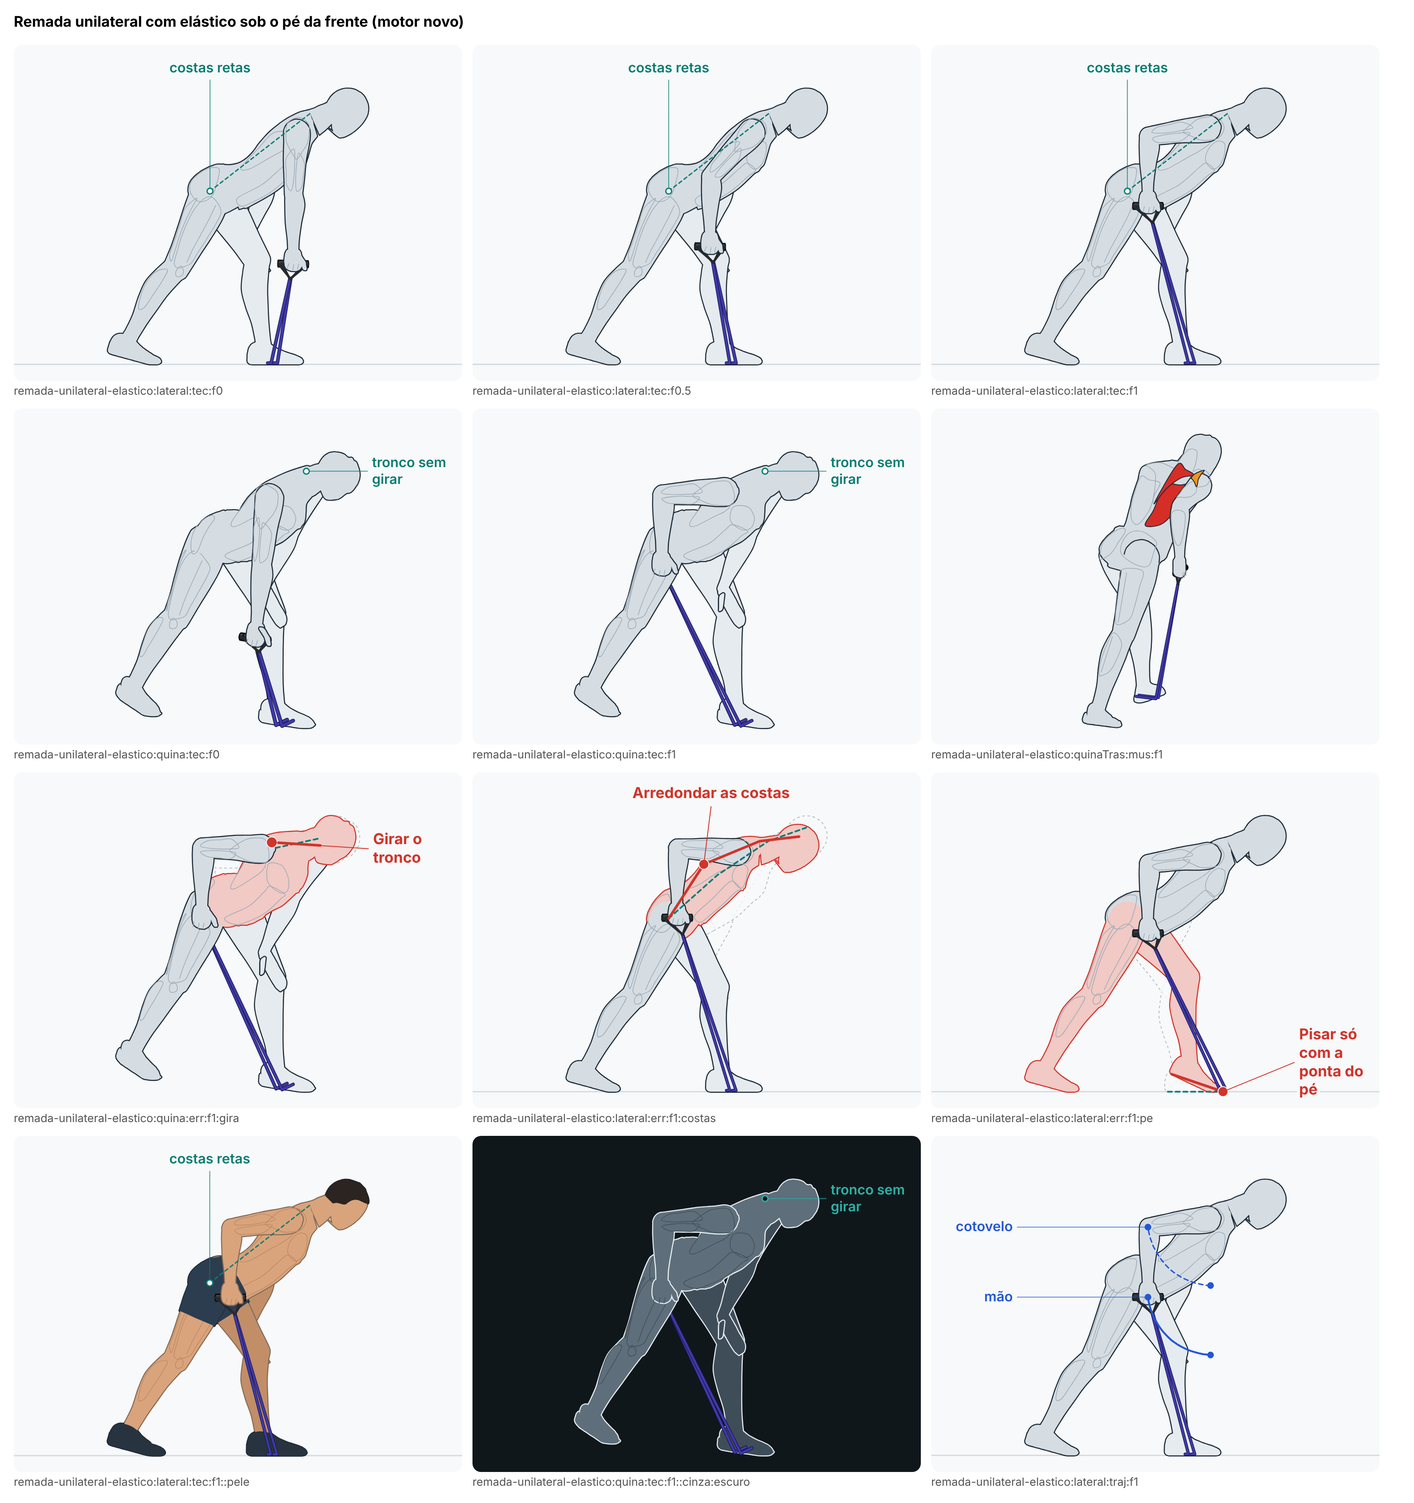
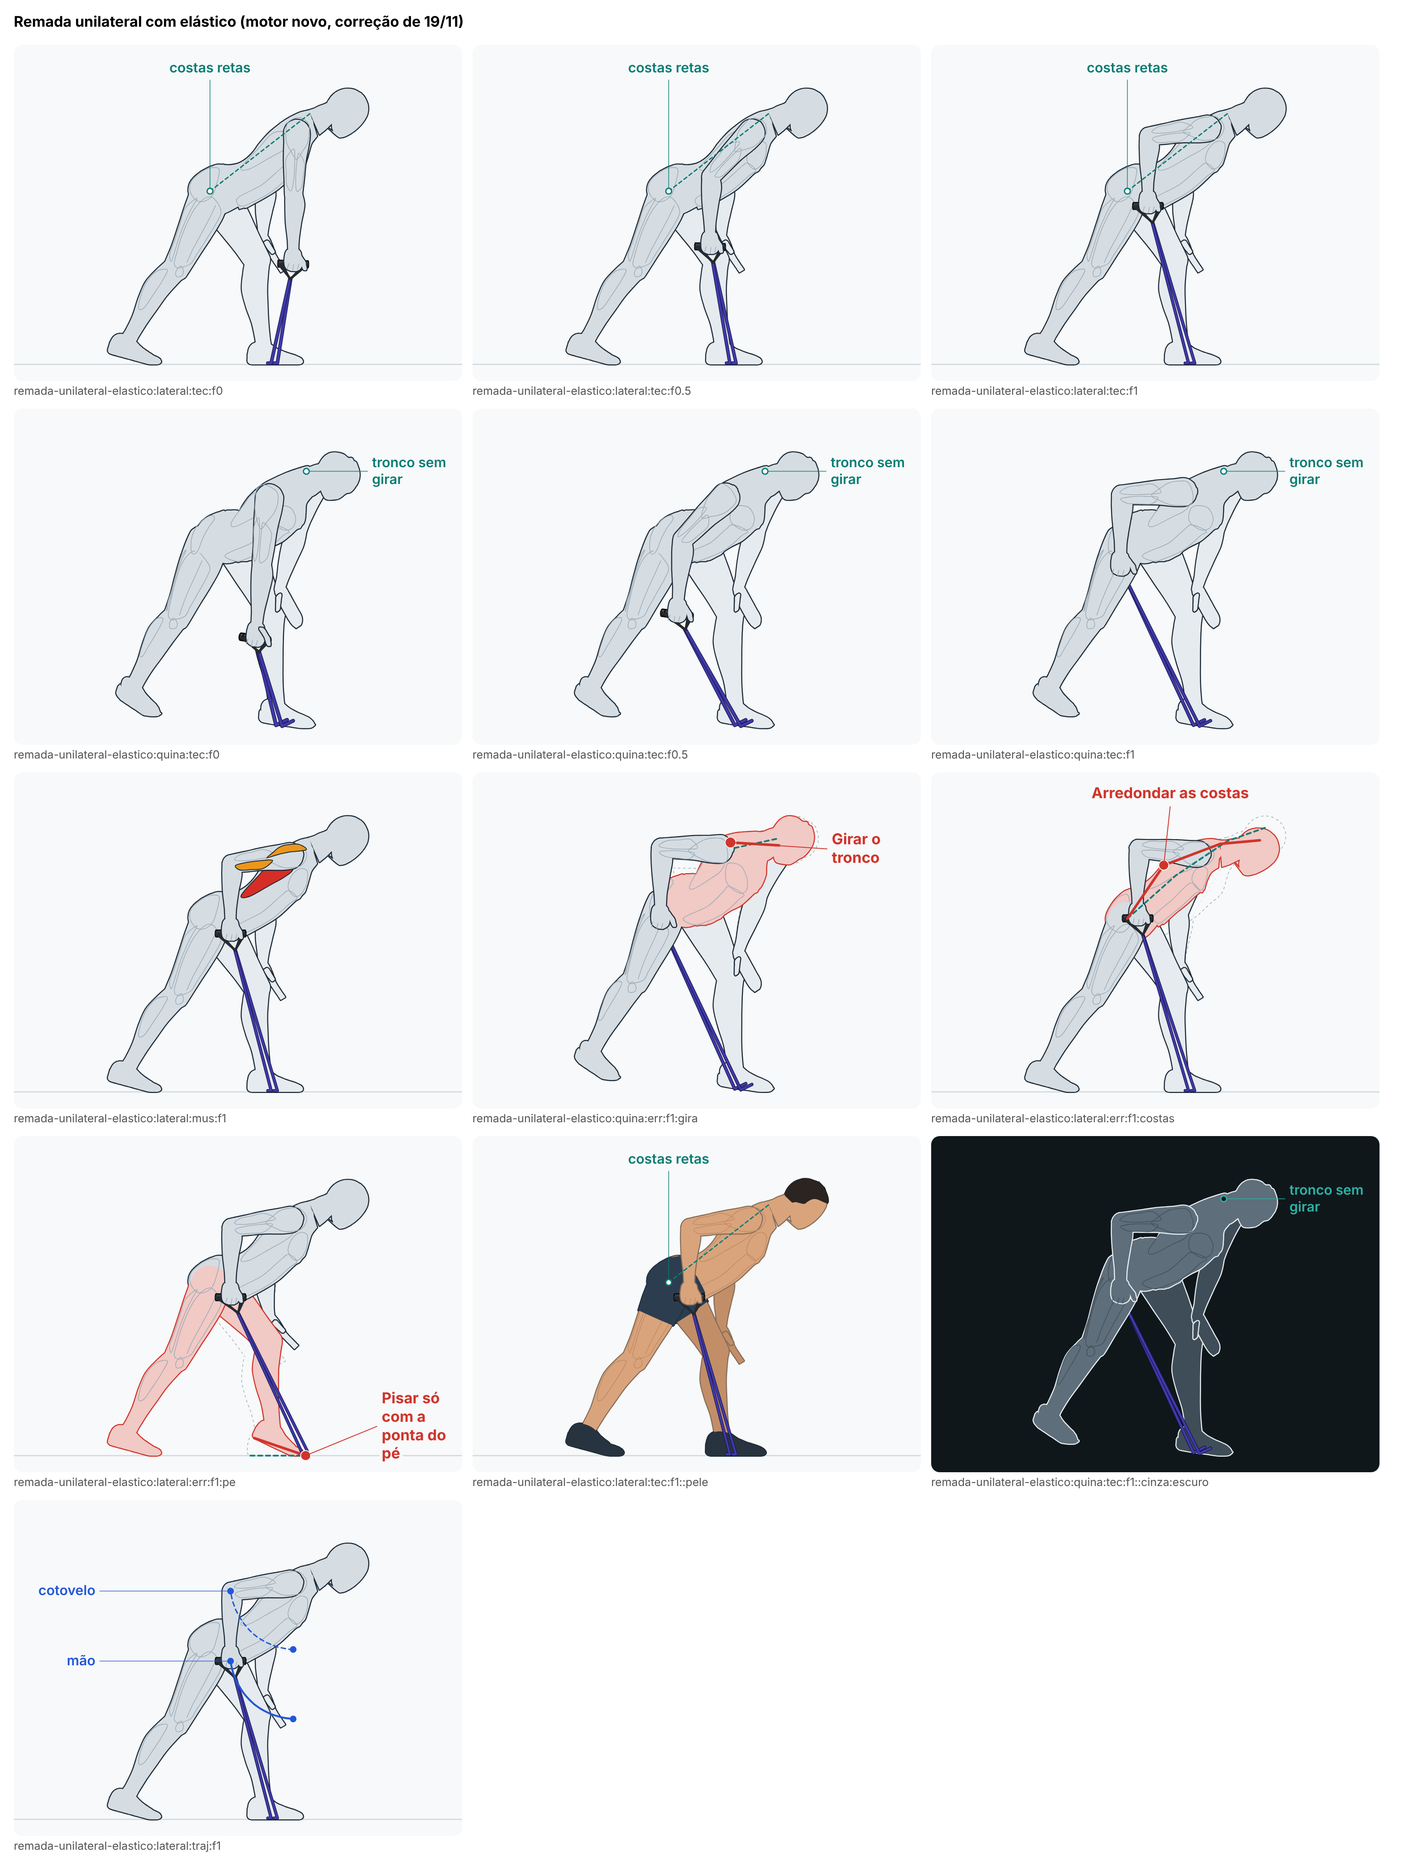
Remada unilateral com elástico: a mão de apoio pousa na coxa, sem entrar nela (auditoria M4)
A base das remadas sem banco procura o ponto da pele da coxa entre pontos a
até 2,5 cm de um plano; entre dois anéis não achava nenhum e punha a mão no
eixo da coxa (o centro da mão 3,8 cm dentro da pele, a mão 5,7 cm e o
antebraço 6,8 cm dentro da coxa). Acréscimo na base: `peleDaCoxaNaSuperficie`
(o anel interpolado e a elipse dele) e a opção `pele` em `baseSemBanco`, que
por padrão continua a de antes. A remada com elástico usa a nova, também no
erro do pé (que passa a seguir o meio da palma); o cotovelo de apoio vai de
12° a 40° para o meio da mão ficar na coxa (97%), e não além do joelho.

Regra nova `remada-elastico-mao-de-apoio-sobre-a-coxa`: no ciclo e nos
erros, o centro da mão fora da pele e dentro da largura da coxa, entre o
quadril e o joelho, e a mão e o antebraço sem entrar nela. Antes: -3,8 cm,
5,7 e 6,8 cm. Depois: +2,7 cm, 0 e até 1 cm.

Claude-Session: https://claude.ai/code/session_01YRzts8DBGbsca9onebcMt1

Changed region(s): [[0.0, 0.0, 0.9951, 1.0]]

diff --git a/src/engine/novo/regras/remada-unilateral-elastico.ts b/src/engine/novo/regras/remada-unilateral-elastico.ts
@@ -1,0 +1,72 @@
+// Regras medidas da remada unilateral com elástico (../exercicios/remada-unilateral-elastico.ts) que as remadas sem banco
+// (./remadas.ts) não medem: a mão de apoio pousada na pele da coxa da frente, sem entrar nela, no ciclo e nos erros
+// (auditoria de 18/11/2026, M4: o centro da mão ficava a 2,3 cm do eixo da coxa e o antebraço entrava 6,3 cm nela).
+import { formaDoBoneco } from '../boneco';
+import { f1 } from '../conferir-util';
+import type { Regra } from '../conferir-util';
+import type { Esq } from '../esqueleto';
+import { distanciaEntre, entraNasPartes } from '../exercicios/sentado-na-ponta';
+import type { Quadro } from '../movimento';
+import { dot, norm, sub } from '../vec';
+
+/**
+ * A mão de apoio (a esquerda) contra a coxa esquerda, num quadro:
+ *  - `t`: onde o centro da mão fica ao longo da coxa (0 = quadril, 1 = joelho);
+ *  - `fora`: quanto o centro da mão fica fora da pele da coxa, na direção dele a partir do eixo (cm; negativo = dentro),
+ *    medido na elipse do anel da coxa interpolado naquele ponto;
+ *  - `borda`: a folga do centro da mão até a borda lateral da coxa (a meia largura do anel menos o desvio para o lado;
+ *    positivo = sobre a coxa, e não ao lado dela);
+ *  - `mao`, `ante`: quanto a pele da mão e a do antebraço entram na pele da coxa (cm; 0 ou menos = não entram);
+ *  - `encosta`: a menor distância entre a pele da mão e a da coxa (cm).
+ */
+export function maoNaCoxa(e: Esq): { t: number; fora: number; borda: number; mao: number; ante: number; encosta: number } {
+  const L = e.lado.L;
+  const eixo = sub(L.joelho, L.quadril);
+  const t = dot(sub(L.pegada, L.quadril), eixo) / dot(eixo, eixo);
+  const aneis = formaDoBoneco(e).grupos.find((g) => g.id === 'pernaL')!.volumes.find((v) => v.nome === 'coxa')!.vol.aneis;
+  // o anel mais perto do centro da mão, ao longo da coxa
+  const u = norm(eixo);
+  let a = aneis[0]!;
+  for (const x of aneis) if (Math.abs(dot(sub(x.c, L.pegada), u)) < Math.abs(dot(sub(a.c, L.pegada), u))) a = x;
+  const d = sub(L.pegada, a.c);
+  const dx = dot(d, a.x),
+    dz = dot(d, a.z);
+  const h = Math.hypot(dx, dz) || 1;
+  const rho = 1 / Math.hypot(dx / h / a.a, dz / h / (dz >= 0 ? a.f : a.b));
+  const esquerdo = (_: string, p: number[]) => p[0]! > 0;
+  const mao = entraNasPartes(e, (parte, p) => parte === 'coxa' && esquerdo(parte, p), (parte, p) => (parte === 'mao' || parte === 'polegar') && esquerdo(parte, p));
+  const ante = entraNasPartes(e, (parte, p) => parte === 'coxa' && esquerdo(parte, p), (parte, p) => parte === 'ante' && esquerdo(parte, p));
+  const encosta = distanciaEntre(e, (parte, p) => parte === 'mao' && esquerdo(parte, p), (parte, p) => parte === 'coxa' && esquerdo(parte, p));
+  return { t, fora: h - rho, borda: a.a - Math.abs(dx), mao, ante, encosta };
+}
+
+export const REGRAS_REMADA_UNILATERAL_ELASTICO: Record<string, Regra> = {
+  'remada-elastico-mao-de-apoio-sobre-a-coxa': (_q, corpo, ex) => {
+    // No ciclo (5 instantes) e em cada erro (no começo, no meio, no fim e no instante dele): o centro da mão de apoio
+    // fica fora da pele da coxa da frente (a palma pousa nela), entre o quadril e o joelho e sobre a coxa (dentro da
+    // largura dela); a mão e o antebraço não entram na coxa mais que o amassado da pele (1,5 e 1 cm), e a mão encosta
+    // (a até 1,5 cm). A remada é de um braço só: a outra mão segura o elástico e não apoia.
+    if (!ex) return { medido: 'a regra precisa do exercício (a conferência o passa)', ok: false };
+    const casos: { onde: string; q: Quadro }[] = [];
+    for (const u of [0, 0.25, 0.5, 0.75, 1]) casos.push({ onde: 'ciclo', q: ex.quadro(corpo, u) });
+    for (const er of ex.ficha.erros) for (const u of [...new Set([0, 0.5, 1, er.instante])]) casos.push({ onde: er.titulo, q: ex.quadro(corpo, u, er.id) });
+    const pior = { t0: 1e9, t1: -1e9, fora: 1e9, borda: 1e9, mao: -1e9, ante: -1e9, encosta: -1e9 };
+    const onde = { fora: '', mao: '', ante: '' };
+    for (const { onde: o, q } of casos) {
+      const m = maoNaCoxa(q.esq);
+      pior.t0 = Math.min(pior.t0, m.t);
+      pior.t1 = Math.max(pior.t1, m.t);
+      if (m.fora < pior.fora) [pior.fora, onde.fora] = [m.fora, o];
+      pior.borda = Math.min(pior.borda, m.borda);
+      if (m.mao > pior.mao) [pior.mao, onde.mao] = [m.mao, o];
+      if (m.ante > pior.ante) [pior.ante, onde.ante] = [m.ante, o];
+      pior.encosta = Math.max(pior.encosta, m.encosta);
+    }
+    return {
+      medido:
+        `o centro da mão de apoio fica de ${f1(pior.t0 * 100)}% a ${f1(pior.t1 * 100)}% do caminho do quadril ao joelho, no mínimo ${f1(pior.fora)} cm fora da pele da coxa (${onde.fora}; negativo = dentro) e ${f1(pior.borda)} cm para dentro da borda lateral dela; ` +
+        `a pele da mão entra até ${f1(Math.max(0, pior.mao))} cm na coxa (${onde.mao}) e a do antebraço até ${f1(Math.max(0, pior.ante))} cm (${onde.ante}); a mão fica a até ${f1(pior.encosta)} cm da pele da coxa`,
+      ok: pior.t0 >= 0.4 && pior.t1 <= 1 && pior.fora >= 0 && pior.borda >= 0 && pior.mao <= 1.5 && pior.ante <= 1 && pior.encosta <= 1.5,
+    };
+  },
+};

diff --git a/src/engine/novo/exercicios/remada-sem-banco.ts b/src/engine/novo/exercicios/remada-sem-banco.ts
@@ -5,7 +5,7 @@
 // A pose parada sai das medidas: a inclinação do peito é a da ficha; cada pé anda para a frente ou para trás até o
 // joelho dele ficar no ângulo da ficha; a altura do quadril é a que dá o passo da ficha (de um tornozelo ao outro); a
 // mão encosta na pele da coxa da frente no ponto em que o cotovelo de apoio fica no ângulo da ficha (`resolver1`).
-import { pontosDoBoneco } from '../boneco';
+import { formaDoBoneco, pontosDoBoneco } from '../boneco';
 import { resolverMembros, resolverTronco } from '../esqueleto';
 import type { Esq, PoseBraco, PosePerna, PoseTronco } from '../esqueleto';
 import { resolver1 } from '../movimento';
@@ -34,7 +34,57 @@ export function peleDaCoxa(e: Esq, t: number): { p: V3; n: V3 } {
   return { p: add(c, mul(n, r)), n };
 }
 
-export function baseSemBanco(corpo: Corpo, f: (id: string) => number): BaseDaRemada {
+/**
+ * O mesmo ponto de `peleDaCoxa`, medido na superfície de verdade (acréscimo de 19/11/2026): o anel da coxa em `t` é
+ * interpolado entre os dois anéis vizinhos do volume da coxa, e o ponto é onde a direção `n` sai da elipse do anel.
+ * `peleDaCoxa` procura pontos da pele a até 2,5 cm do plano em `t` e, entre dois anéis afastados, não acha nenhum: o
+ * ponto ficava no eixo da coxa (com a mão de apoio dentro dela; auditoria de 18/11, M4).
+ */
+export function peleDaCoxaNaSuperficie(e: Esq, t: number): { p: V3; n: V3 } {
+  const L = e.lado.L;
+  const eixo = sub(L.joelho, L.quadril),
+    comp = Math.hypot(...eixo);
+  const u = mul(eixo, 1 / comp);
+  const n = norm(add(L.coxa.z, mul(L.coxa.x, 0.15)));
+  const c = add(L.quadril, mul(eixo, t));
+  const vol = formaDoBoneco(e).grupos.find((g) => g.id === 'pernaL')!.volumes.find((v) => v.nome === 'coxa')!.vol;
+  // o ponto da superfície de um anel na direção n (projetada no plano do anel)
+  const naPele = (a: (typeof vol.aneis)[number]): V3 => {
+    const nx = dot(n, a.x),
+      nz = dot(n, a.z);
+    const h = Math.hypot(nx, nz) || 1;
+    const cx = nx / h,
+      cz = nz / h;
+    const rho = 1 / Math.hypot(cx / a.a, cz / (cz >= 0 ? a.f : a.b));
+    return add(a.c, add(mul(a.x, rho * cx), mul(a.z, rho * cz)));
+  };
+  const ao = (a: (typeof vol.aneis)[number]) => dot(sub(a.c, c), u);
+  const A = vol.aneis;
+  let i = 0;
+  while (i + 2 < A.length && ao(A[i + 1]!) < 0) i++;
+  const a0 = A[i]!,
+    a1 = A[i + 1]!;
+  const d0 = ao(a0),
+    d1 = ao(a1);
+  const w = Math.max(0, Math.min(1, d1 === d0 ? 0 : -d0 / (d1 - d0)));
+  const p0 = naPele(a0),
+    p1 = naPele(a1);
+  const p = add(p0, mul(sub(p1, p0), w));
+  // o ponto fica no plano em t (a pele entre os dois anéis), na direção n a partir do eixo
+  const r = dot(sub(p, c), n);
+  return { p: add(c, mul(n, r)), n };
+}
+
+/**
+ * Opções da base (acréscimo de 19/11/2026; sem elas, nada muda): `pele` é o ponto da coxa em que a mão de apoio pousa
+ * (por padrão, `peleDaCoxa`).
+ */
+export interface OpcoesSemBanco {
+  pele?: (e: Esq, t: number) => { p: V3; n: V3 };
+}
+
+export function baseSemBanco(corpo: Corpo, f: (id: string) => number, opcoes: OpcoesSemBanco = {}): BaseDaRemada {
+  const pele = opcoes.pele ?? peleDaCoxa;
   const m = (id: string) => corpo.m(id);
   const peito = f('tronco.inclinacao');
   const tronco = (y: number): PoseTronco => ({ pelve: [0, y, 0], frente: peito, cervical: f('cervical'), cabeca: f('cabeca') });
@@ -69,7 +119,7 @@ export function baseSemBanco(corpo: Corpo, f: (id: string) => number): BaseDaRem
     // a mão espalmada na coxa da frente: o meio da palma na pele, os dedos para o joelho, o polegar para dentro
     let apoio: PoseBraco = semBraco;
     for (let i = 0; i < 3; i++) {
-      const P = peleDaCoxa(e, naCoxa);
+      const P = pele(e, naCoxa);
       const dedos = norm(sub(e.lado.L.joelho, e.lado.L.quadril));
       const punho = sub(add(P.p, mul(P.n, m('raio.punho') * 0.85)), mul(dedos, m('mao.palma') * 0.45));
       apoio = { punho, polo: norm([1, 0.2, -0.6]), mao: { polegar: [-1, 0, 0], dedos, forma: 'aberta' } };

diff --git a/src/engine/novo/exercicios/remada-unilateral-elastico.ts b/src/engine/novo/exercicios/remada-unilateral-elastico.ts
@@ -22,7 +22,7 @@ import { comprimento } from './elastico-faixa';
 import { bordasDaSolaEm, trechoAteOPe } from './elastico-pisado';
 import { criarRemada } from './remada';
 import type { BaseDaRemada } from './remada';
-import { baseSemBanco, peleDaCoxa } from './remada-sem-banco';
+import { baseSemBanco, peleDaCoxaNaSuperficie } from './remada-sem-banco';
 
 const f = daFicha(fichaSchema.parse(ficha));
 /** O meio da sola, do calcanhar à ponta do pé (como na curvada com elástico e na rosca com elástico aprovada). */
@@ -31,7 +31,7 @@ const MEIO_DA_SOLA = 0.4;
 /**
  * O erro do pé: a mesma base, com o calcanhar da frente levantado. O quadril fica onde estava (a perna de trás, quase
  * estendida, não deixa o corpo subir), o joelho da frente dobra mais, e a mão de apoio vai junto com a coxa: fica no
- * mesmo ponto dela, assentada na pele como em ./remada-sem-banco.ts.
+ * mesmo ponto dela, assentada na pele (medida na superfície, como na base).
  */
 function naPonta(b: BaseDaRemada, corpo: Corpo): BaseDaRemada {
   const m = (id: string) => corpo.m(id);
@@ -39,14 +39,16 @@ function naPonta(b: BaseDaRemada, corpo: Corpo): BaseDaRemada {
   const t = resolverTronco(corpo, b.tronco);
   const antes = resolverMembros(t, { R: solto, L: b.apoio! }, b.pernas);
   const L0 = antes.lado.L;
-  // em que ponto da coxa (0 = quadril, 1 = joelho) o meio da mão apoia
+  // em que ponto da coxa (0 = quadril, 1 = joelho) o meio da palma apoia: o ponto da pele que a base usou (o punho fica
+  // `mao.palma` × 0,45 antes dele, ao longo da coxa). Até 19/11 a conta usava o centro da pegada, alguns centímetros
+  // adiante, e a mão escorregava para o joelho no erro
   const eixo0 = sub(L0.joelho, L0.quadril);
-  const naCoxa = dot(sub(L0.pegada, L0.quadril), eixo0) / dot(eixo0, eixo0);
+  const naCoxa = dot(sub(add(L0.punho, mul(norm(eixo0), m('mao.palma') * 0.45)), L0.quadril), eixo0) / dot(eixo0, eixo0);
   const pernas = { R: b.pernas.R, L: { ...b.pernas.L, pe: { ...b.pernas.L.pe!, calc: f('erro.pe.calcanhar') } } };
   let e = resolverMembros(t, { R: solto, L: b.apoio! }, pernas);
   let apoio = b.apoio!;
   for (let i = 0; i < 3; i++) {
-    const P = peleDaCoxa(e, naCoxa);
+    const P = peleDaCoxaNaSuperficie(e, naCoxa);
     const dedos = norm(sub(e.lado.L.joelho, e.lado.L.quadril));
     const punho = sub(add(P.p, mul(P.n, m('raio.punho') * 0.85)), mul(dedos, m('mao.palma') * 0.45));
     apoio = { ...b.apoio!, punho, mao: { ...b.apoio!.mao, dedos } };
@@ -56,8 +58,12 @@ function naPonta(b: BaseDaRemada, corpo: Corpo): BaseDaRemada {
 }
 
 const ERROS = { gira: 'girar', costas: 'arredondar' } as const;
-const R = criarRemada(ficha, { bracos: 'R', carga: 'elastico', base: (c) => baseSemBanco(c, f), erros: ERROS });
-const NA_PONTA = criarRemada(ficha, { bracos: 'R', carga: 'elastico', base: (c) => naPonta(baseSemBanco(c, f), c), erros: ERROS });
+// a mão de apoio pousa na pele da coxa medida na superfície (`peleDaCoxaNaSuperficie`): com a medida da base comum, o
+// ponto em que ela pousa caía entre dois anéis da coxa e ficava no eixo dela, e a mão e o antebraço entravam na coxa
+// (auditoria de 18/11, M4)
+const BASE = (c: Corpo) => baseSemBanco(c, f, { pele: peleDaCoxaNaSuperficie });
+const R = criarRemada(ficha, { bracos: 'R', carga: 'elastico', base: BASE, erros: ERROS });
+const NA_PONTA = criarRemada(ficha, { bracos: 'R', carga: 'elastico', base: (c) => naPonta(BASE(c), c), erros: ERROS });
 
 function quadro(corpo: Corpo, u: number, erro?: string): Quadro {
   const q = erro === 'pe' ? NA_PONTA.quadro(corpo, u) : R.quadro(corpo, u, erro);

diff --git a/src/engine/novo/regras/registro.ts b/src/engine/novo/regras/registro.ts
@@ -75,4 +75,5 @@ export { REGRAS_BANCO_ROMANO } from './banco-romano';
 export { REGRAS_BANCO_DECLINADO } from './banco-declinado';
 export { REGRAS_MAQUINAS_DE_BRACO } from './maquinas-de-braco';
 export { REGRAS_AVULSOS_C3 } from './avulsos-c3';
+export { REGRAS_REMADA_UNILATERAL_ELASTICO } from './remada-unilateral-elastico';
 export { REGRAS_VISTAS_DO_GUIA } from './vistas-do-guia';

diff --git a/docs/revisoes/animacao-nova/lote-A2/remada-unilateral-elastico.md b/docs/revisoes/animacao-nova/lote-A2/remada-unilateral-elastico.md
@@ -59,3 +59,32 @@ A mesma da curvada com elástico: `carga: 'elastico'` no `exercicios/remada.ts` 
 - **Tirei o rótulo "cotovelo para trás"**: de lado (no fim) e de três quartos (no começo), o fio dele atravessava as costas. Ficaram "costas retas" (de lado) e "tronco sem girar" (de três quartos); o caminho do cotovelo aparece no modo Trajetória.
 - **Na vista de três quartos, a dobra do tubo** aparece como um pequeno "V" roxo ao lado de fora do pé da frente.
 - **No erro do pé**, o joelho da frente dobra mais em vez de o corpo subir (com a perna de trás quase estendida, o corpo não tem como subir sem tirar o pé de trás do lugar).
+
+## Correção de 19/11 (auditoria)
+
+A auditoria das fases A e B (M4) achou a mão de apoio (a esquerda) dentro da coxa da frente: o centro da pegada a 2,3 cm do eixo da coxa (40% do raio) e o antebraço entrando 6,3 cm nela; de três quartos só aparecia um pedaço da mão solto na frente do joelho. A animação saiu da aprovação até a correção.
+
+**A causa.** A base das remadas sem banco (`exercicios/remada-sem-banco.ts`) pousa a mão no ponto da pele da coxa que `peleDaCoxa` acha: os pontos da pele a até 2,5 cm do plano naquele ponto da coxa, e o mais alto deles na direção da frente da coxa. No ponto em que a mão pousa (a 88% do caminho do quadril ao joelho), entre dois anéis da coxa, a função não achava ponto nenhum e devolvia o próprio eixo: a mão era posta 2,4 cm acima do eixo, dentro da coxa. (As remadas sem banco aprovadas, com halter e com kettlebell, usam a mesma base e têm a mesma mão dentro da coxa: não foram tocadas; ver a resposta da sessão.)
+
+**A mudança.**
+
+1. **Núcleo comum, acréscimo:** `remada-sem-banco.ts` ganhou `peleDaCoxaNaSuperficie` (o mesmo ponto, medido na superfície de verdade: o anel da coxa interpolado entre os dois vizinhos e a saída da direção na elipse dele) e uma opção `pele` em `baseSemBanco`, que por padrão continua `peleDaCoxa`. As remadas aprovadas não passam a opção e ficam iguais.
+2. **No exercício:** a base usa `peleDaCoxaNaSuperficie`, e o erro "Pisar só com a ponta do pé" também (lá a mão acompanha a coxa). No erro, o ponto da coxa passou a ser o do meio da palma, e não o centro da pegada (alguns centímetros adiante: a mão escorregava para o joelho).
+3. **Na ficha:** `apoio.cotovelo` foi de 12° para 40° (selo desenho). Com a mão pousada na pele, 6 cm acima de onde ficava, o braço quase estendido levava o meio da mão além do joelho (104% do caminho); com 40°, ela fica a 97%, na coxa, logo acima do joelho. O cotovelo de apoio fica escondido atrás do tronco nas duas vistas.
+
+**A regra nova** (`remada-elastico-mao-de-apoio-sobre-a-coxa`, em `regras/remada-unilateral-elastico.ts`): no ciclo (5 instantes) e em cada erro (começo, meio, fim e o instante dele), mede onde fica o centro da mão de apoio ao longo da coxa (de 40% a 100% do caminho do quadril ao joelho), quanto ele fica fora da pele (na elipse do anel da coxa ali; tem de ser 0 ou mais), a folga dele até a borda lateral da coxa (tem de ficar sobre ela, e não ao lado), quanto a pele da mão e a do antebraço entram na coxa (até 1,5 e 1 cm, o amassado da pele) e se a mão encosta (a até 1,5 cm). É uma remada de um braço só: a mão direita segura o elástico e não apoia, por isso a regra mede um lado só.
+
+| | antes (`1828c0e`) | depois |
+|---|---|---|
+| centro da mão ao longo da coxa (do quadril ao joelho) | 88,2% a 92,4% | 97,2% |
+| centro da mão fora da pele da coxa (negativo = dentro), pior quadro | **−3,8 cm** (no erro "Arredondar as costas") | +2,7 cm |
+| centro da mão até a borda lateral da coxa | 4,7 cm para dentro | 3,7 cm para dentro |
+| a pele da mão entra na coxa | **5,7 cm** | 0 cm |
+| a pele do antebraço entra na coxa | **6,8 cm** (erro "Girar o tronco") | até 1 cm (erro "Pisar só com a ponta do pé"; 0 no ciclo) |
+| o cotovelo de apoio | 12° | 40° |
+
+Rodada no estado de antes (o exercício e a ficha de `1828c0e`, com a regra nova), a conferência dá **1 falha** (esta regra). No estado novo: **0 falhas**, os mesmos avisos de antes; a regra antiga "mão livre apoiada na coxa da frente" passa (0,5 cm da pele, a 97,2%).
+
+**Olhado nos quadros** (`quadros/remada-unilateral-elastico.png`): de três quartos, a mão esquerda aparece inteira, espalmada sobre a frente da coxa, logo acima do joelho, com o antebraço descendo até ela; de lado ela aparece na frente da coxa de longe. Nos três erros a mão fica no mesmo ponto da coxa.
+
+**O que ainda não ficou bom.** A mão pousa perto do joelho (97% do caminho), e não no meio da coxa: com o tronco a 56° da vertical, o ombro fica quase sobre o joelho, e pôr a mão mais alto pediria o cotovelo bem dobrado (60° para 84%). No erro "Pisar só com a ponta do pé", o antebraço encosta 1 cm na coxa (no limite do amassado da pele). As remadas sem banco aprovadas seguem com a mão dentro da coxa.
